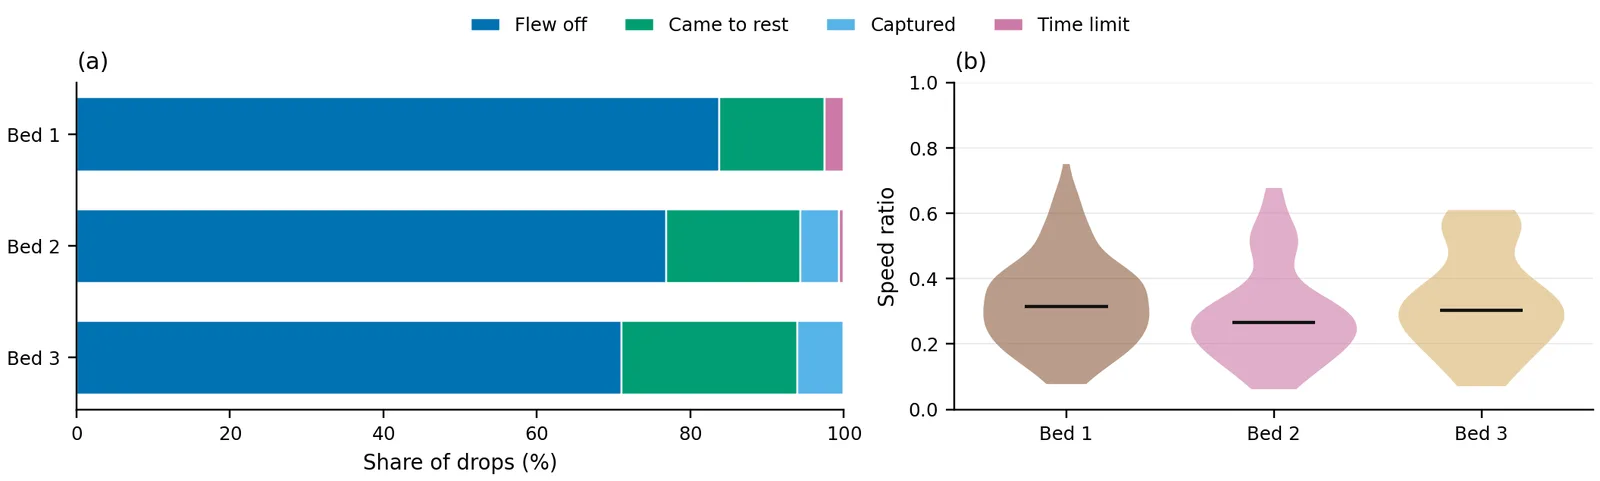
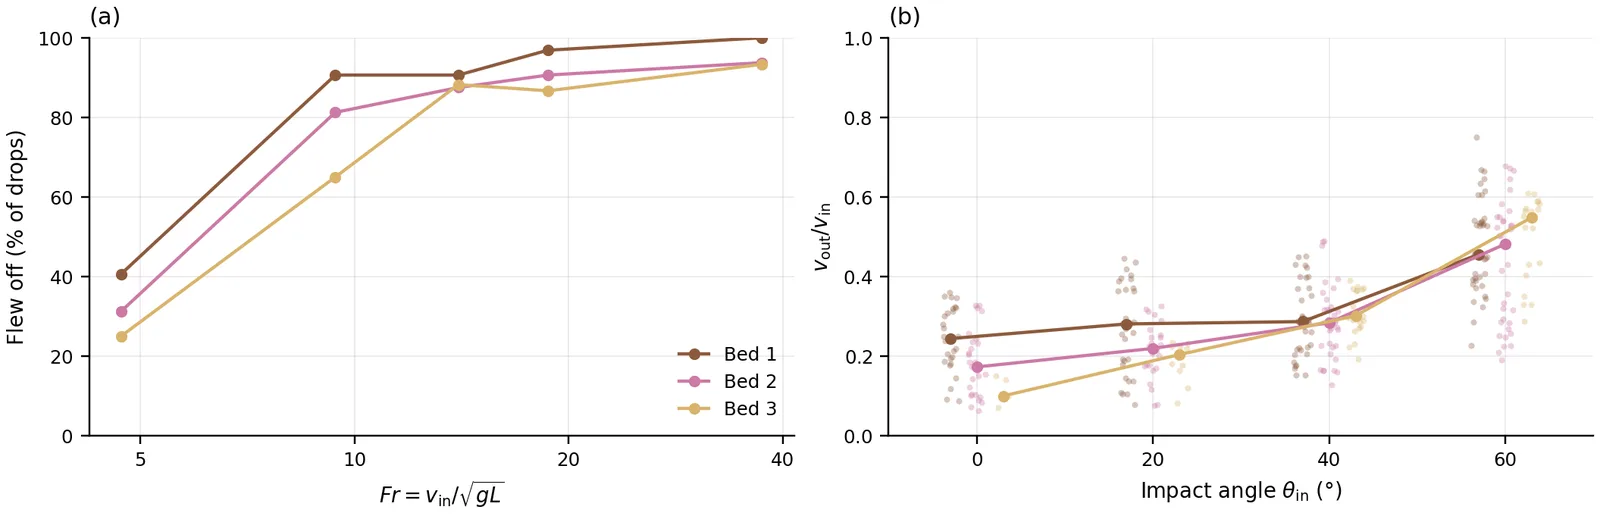
project pages: update

diff --git a/src/project/results.md b/src/project/results.md
@@ -6,7 +6,7 @@ The drops stopped with 1,814 of the 4,360 planned drops finished. Bed 1 is compl
 
 **Decided November 10: bed 2 stops and bed 3 continues as it is,** 37 cm of stones, now with a 1.0 m free patch (bed 1 used 1.2 m). Its 1,440 drops take about 18 days on the lab Mac. The 83 bed 3 drops made with the 1.2 m patch are kept, and pair with the new ones at the center spot as a check of the smaller patch. Bed 2's 251 drops stay in the record.
 
-**Words used here.** The *speed ratio* is the speed leaving the surface divided by the impact speed. *Flew off* means the craft is in flight after its last touch on the patch. It includes the drops recorded as leaving the patch, which are in the air and differ only in whether they were rising as they crossed its edge. It does not mean the craft escaped. The *free patch* is the circle around the aim point where grains can move.
+**Symbols and words used here.** v<sub>in</sub> is the impact speed, v<sub>out</sub> the speed leaving the surface, and v<sub>out</sub>/v<sub>in</sub> their ratio. θ<sub>in</sub> is the impact angle from vertical, ω<sub>out</sub> the craft's spin as it leaves, and Fr = v<sub>in</sub>/√(gL) the Froude number (g the gravity, L the craft's 36.6 cm length). *Flew off* means the craft is in flight after its last touch on the patch. It includes the drops recorded as leaving the patch, which are in the air and differ only in whether they were rising as they crossed its edge. It does not mean the craft escaped. The *free patch* is the circle around the aim point where grains can move.
 
 ## How much is done
 
@@ -28,73 +28,43 @@ Boulders 20–70 cm long, 720 drops at each gravity: 5 speeds, 4 angles, 4 craft
 
 - Most drops fly off: 85% on Dimorphos and 82% on Didymos. Another 11–15% come to rest.
 - Impact speed decides whether the craft flies off. On Dimorphos 53% fly off at 2 cm/s and 99% at 16 cm/s.
-- Impact angle decides how much speed it keeps: a median ratio of 0.25–0.32 up to 40° and 0.5 at 60°.
+- Impact angle decides how much speed it keeps: a median v<sub>out</sub>/v<sub>in</sub> of 0.25–0.32 up to 40° and 0.5 at 60°.
 - Landing at 8 cm/s on Dimorphos, 1 drop in 144 leaves faster than 6.5 cm/s and 34% leave faster than 3.3 cm/s. At 16 cm/s those become 35% and 76%. Most drops that fly off stay on the body: 72% of those on Dimorphos, across all three beds, leave slower than 3.3 cm/s.
 - Craft pose and landing spot matter much less. The solar panels touch first in over 80% of drops, except in the pose that lands on the back of the body.
 
 <figure style="margin:1.4em 0">
-<img src="figures/results/bed1/outcomes.webp" alt="How the drops ended, as a share of the drops at each impact speed (a, c; 144 drops per bar) and impact angle from vertical (b, d; 180 drops per bar), for Dimorphos (a, b) and Didymos (c, d) gravity" loading="lazy" style="width:100%;background:#fff">
-<figcaption style="font-size:.9em;margin-top:.4em">How the drops ended, as a share of the drops at each impact speed (a, c; 144 drops per bar) and impact angle from vertical (b, d; 180 drops per bar), for Dimorphos (a, b) and Didymos (c, d) gravity. Flew off includes the drops recorded as leaving the free patch.</figcaption>
+<img src="figures/results/bed1/outcomes.webp" alt="Share of drops that flew off against impact speed v_in, one line per impact angle θ_in from vertical, for Dimorphos (a) and Didymos (b) gravity" loading="lazy" style="width:100%;background:#fff">
+<figcaption style="font-size:.9em;margin-top:.4em">Share of drops that flew off against impact speed v<sub>in</sub>, one line per impact angle θ<sub>in</sub> from vertical, for Dimorphos (a) and Didymos (b) gravity. Each point is 36 drops: 9 landing spots and 4 craft poses. The other drops came to rest or were captured; a few reached the 300 s time limit or never touched. Flew off includes the drops recorded as leaving the free patch.</figcaption>
 </figure>
 
 <figure style="margin:1.4em 0">
-<img src="figures/results/bed1/outcome_map.webp" alt="Share of drops that flew off (a, c) and stayed, meaning came to rest or were captured (b, d), for each impact speed and angle" loading="lazy" style="width:100%;background:#fff">
-<figcaption style="font-size:.9em;margin-top:.4em">Share of drops that flew off (a, c) and stayed, meaning came to rest or were captured (b, d), for each impact speed and angle. Top row Dimorphos, bottom row Didymos. Each cell is 36 drops.</figcaption>
+<img src="figures/results/bed1/exit_speed.webp" alt="Speed leaving the surface v_out against impact speed v_in for every drop that flew off, colored by impact angle θ_in, for Dimorphos (a) and Didymos (b) gravity; impact speeds are spread a little sideways so the points do not overlap" loading="lazy" style="width:100%;background:#fff">
+<figcaption style="font-size:.9em;margin-top:.4em">Speed leaving the surface v<sub>out</sub> against impact speed v<sub>in</sub> for every drop that flew off, colored by impact angle θ<sub>in</sub>, for Dimorphos (a) and Didymos (b) gravity; impact speeds are spread a little sideways so the points do not overlap. (c) Share of the Dimorphos drops leaving faster than the escape speed v<sub>esc</sub> from near Dimorphos's surface, which ranges from 3.3 to 6.5 cm/s over the surface; each point is 144 drops.</figcaption>
 </figure>
 
 <figure style="margin:1.4em 0">
-<img src="figures/results/bed1/what_matters.webp" alt="Share of the spread in the results explained by each setting taken alone (the between-group share of the variance): (a) whether the drop flew off; (b) the speed ratio of the drops that flew off." loading="lazy" style="width:100%;background:#fff">
-<figcaption style="font-size:.9em;margin-top:.4em">Share of the spread in the results explained by each setting taken alone (the between-group share of the variance): (a) whether the drop flew off; (b) the speed ratio of the drops that flew off.</figcaption>
+<img src="figures/results/bed1/vout_vin.webp" alt="Speed leaving the surface over impact speed, v_out/v_in, for every drop that flew off, against impact angle θ_in from vertical, for Dimorphos (a) and Didymos (b) gravity" loading="lazy" style="width:100%;background:#fff">
+<figcaption style="font-size:.9em;margin-top:.4em">Speed leaving the surface over impact speed, v<sub>out</sub>/v<sub>in</sub>, for every drop that flew off, against impact angle θ<sub>in</sub> from vertical, for Dimorphos (a) and Didymos (b) gravity. Points are colored by craft pose and shifted a little sideways by pose; lines join each pose's medians. All impact speeds together: impact speed explains under 2 % of the variance of v<sub>out</sub>/v<sub>in</sub> (see the next figure).</figcaption>
 </figure>
 
 <figure style="margin:1.4em 0">
-<img src="figures/results/bed1/bounce_ratio.webp" alt="Speed ratio (speed leaving the surface divided by impact speed) of the drops that flew off, against impact speed (a, c) and impact angle (b, d)" loading="lazy" style="width:100%;background:#fff">
-<figcaption style="font-size:.9em;margin-top:.4em">Speed ratio (speed leaving the surface divided by impact speed) of the drops that flew off, against impact speed (a, c) and impact angle (b, d). Boxes span the middle half of the drops, the line is the median and the whiskers reach 1.5 times the box height.</figcaption>
+<img src="figures/results/bed1/what_matters.webp" alt="Share of the variance of each result explained by each setting on its own (η², the between-group share of the variance): (a) whether a drop flew off, counted as 1 or 0; (b) v_out/v_in of the drops that flew off" loading="lazy" style="width:100%;background:#fff">
+<figcaption style="font-size:.9em;margin-top:.4em">Share of the variance of each result explained by each setting on its own (η², the between-group share of the variance): (a) whether a drop flew off, counted as 1 or 0; (b) v<sub>out</sub>/v<sub>in</sub> of the drops that flew off. Settings: impact speed v<sub>in</sub>, impact angle θ<sub>in</sub>, craft pose and landing spot.</figcaption>
 </figure>
 
 <figure style="margin:1.4em 0">
-<img src="figures/results/bed1/ratio_by_pose.webp" alt="Median speed ratio of the drops that flew off, for each impact speed, angle and craft pose" loading="lazy" style="width:100%;background:#fff">
-<figcaption style="font-size:.9em;margin-top:.4em">Median speed ratio of the drops that flew off, for each impact speed, angle and craft pose. Top row Dimorphos, bottom row Didymos. Each cell holds at most 9 drops; white cells had none that flew off.</figcaption>
+<img src="figures/results/bed1/exit_direction.webp" alt="Direction of the exit velocity for every drop that flew off, against impact angle θ_in, Dimorphos and Didymos gravity shifted a little sideways" loading="lazy" style="width:100%;background:#fff">
+<figcaption style="font-size:.9em;margin-top:.4em">Direction of the exit velocity for every drop that flew off, against impact angle θ<sub>in</sub>, Dimorphos and Didymos gravity shifted a little sideways. (a) Elevation α<sub>out</sub> above the local horizontal; lines join the medians. (b) Azimuth ψ<sub>out</sub> from the incoming horizontal direction: 0° carries on forward, ±180° comes back. Straight-down drops (θ<sub>in</sub> = 0°) have no incoming horizontal direction, so their ψ<sub>out</sub> is measured from the bed's x axis.</figcaption>
 </figure>
 
 <figure style="margin:1.4em 0">
-<img src="figures/results/bed1/exit_speed.webp" alt="Speed leaving the surface of every drop that flew off, against impact speed, for Dimorphos (a) and Didymos (b)" loading="lazy" style="width:100%;background:#fff">
-<figcaption style="font-size:.9em;margin-top:.4em">Speed leaving the surface of every drop that flew off, against impact speed, for Dimorphos (a) and Didymos (b). The gray band in (a) is the speed needed to escape Dimorphos from near its surface, 3.3 to 6.5 cm/s. (c) Share of Dimorphos drops leaving faster than the lower and upper edge of that band.</figcaption>
+<img src="figures/results/bed1/spin.webp" alt="Spin leaving the surface ω_out (magnitude of the craft&#x27;s angular velocity) against impact speed v_in for every drop that flew off, for Dimorphos (a) and Didymos (b) gravity" loading="lazy" style="width:100%;background:#fff">
+<figcaption style="font-size:.9em;margin-top:.4em">Spin leaving the surface ω<sub>out</sub> (magnitude of the craft's angular velocity) against impact speed v<sub>in</sub> for every drop that flew off, for Dimorphos (a) and Didymos (b) gravity. Points are colored by craft pose and shifted a little sideways by pose; lines join each pose's medians.</figcaption>
 </figure>
 
 <figure style="margin:1.4em 0">
-<img src="figures/results/bed1/exit_direction.webp" alt="Which way the craft leaves, both gravities, drops that flew off" loading="lazy" style="width:100%;background:#fff">
-<figcaption style="font-size:.9em;margin-top:.4em">Which way the craft leaves, both gravities, drops that flew off. (a) Height of the exit path above the horizontal against impact angle; the line in each shape is the median. (b) Direction relative to the approach: 0° carries on forward and ±180° comes back.</figcaption>
-</figure>
-
-<figure style="margin:1.4em 0">
-<img src="figures/results/bed1/spin_energy.webp" alt="Median spin leaving the surface (a, b) and share of the mechanical energy kept (c, d) against impact speed, one line per craft pose, for the drops that flew off." loading="lazy" style="width:100%;background:#fff">
-<figcaption style="font-size:.9em;margin-top:.4em">Median spin leaving the surface (a, b) and share of the mechanical energy kept (c, d) against impact speed, one line per craft pose, for the drops that flew off.</figcaption>
-</figure>
-
-<figure style="margin:1.4em 0">
-<img src="figures/results/bed1/contact.webp" alt="How the craft meets the ground" loading="lazy" style="width:100%;background:#fff">
-<figcaption style="font-size:.9em;margin-top:.4em">How the craft meets the ground. Median number of separate touches (a) and seconds from first to last touch (b) against impact speed on Dimorphos, one line per outcome; a point needs at least 5 drops. (c) Which part of the craft touched first, for each pose, both gravities.</figcaption>
-</figure>
-
-<figure style="margin:1.4em 0">
-<img src="figures/results/bed1/by_spot.webp" alt="The nine landing spots, 0.3 m apart, laid out as on the bed, 80 drops each" loading="lazy" style="width:100%;background:#fff">
-<figcaption style="font-size:.9em;margin-top:.4em">The nine landing spots, 0.3 m apart, laid out as on the bed, 80 drops each. Share of drops that flew off (a, c) and median speed ratio of those drops (b, d). Top row Dimorphos, bottom row Didymos.</figcaption>
-</figure>
-
-<figure style="margin:1.4em 0">
-<img src="figures/results/bed1/gravity_scaling.webp" alt="The same drops at both gravities, with Didymos at twice Dimorphos&#x27;s speed so that the two match in scaled terms" loading="lazy" style="width:100%;background:#fff">
-<figcaption style="font-size:.9em;margin-top:.4em">The same drops at both gravities, with Didymos at twice Dimorphos's speed so that the two match in scaled terms. Each gravity uses its own pour of the bed. (a) Speed ratio of the pairs that flew off both times, with the line of equal values. (b) Number of pairs with each combination of outcomes.</figcaption>
-</figure>
-
-<figure style="margin:1.4em 0">
-<img src="figures/results/bed1/travel_and_time.webp" alt="Share of drops at or below (a) the sideways distance from the aim point to the craft&#x27;s last touch and (b) the simulated time to the end of the drop, one curve per outcome, both gravities." loading="lazy" style="width:100%;background:#fff">
-<figcaption style="font-size:.9em;margin-top:.4em">Share of drops at or below (a) the sideways distance from the aim point to the craft's last touch and (b) the simulated time to the end of the drop, one curve per outcome, both gravities.</figcaption>
-</figure>
-
-<figure style="margin:1.4em 0">
-<img src="figures/results/bed1/health.webp" alt="(a) Result of each drop&#x27;s quality check" loading="lazy" style="width:100%;background:#fff">
-<figcaption style="font-size:.9em;margin-top:.4em">(a) Result of each drop's quality check. (b) Computer time per drop on one core, by outcome: boxes span the middle half, the line is the median and the whiskers reach 1.5 times the box width.</figcaption>
+<img src="figures/results/bed1/gravity_scaling.webp" alt="The same drops at both gravities, with Didymos at twice Dimorphos&#x27;s speed so that the Froude number Fr = v_in/√(gL) matches (g the gravity, L = 36.6 cm the craft&#x27;s length)" loading="lazy" style="width:100%;background:#fff">
+<figcaption style="font-size:.9em;margin-top:.4em">The same drops at both gravities, with Didymos at twice Dimorphos's speed so that the Froude number Fr = v<sub>in</sub>/√(gL) matches (g the gravity, L = 36.6 cm the craft's length). Each gravity uses its own pour of the bed. (a) v<sub>out</sub>/v<sub>in</sub> of the pairs that flew off both times; the line marks equal values. (b) Share of drops that flew off against Fr; each point is 144 drops.</figcaption>
 </figure>
 
 ## How big the beds need to be
@@ -102,8 +72,8 @@ Boulders 20–70 cm long, 720 drops at each gravity: 5 speeds, 4 angles, 4 craft
 A drop only simulates the free patch and a thin frozen ring around it. Time per drop follows the number of grains in the patch: it grows as grains to the power 1.52, so halving the grains makes each step 2.9 times faster.
 
 <figure style="margin:1.4em 0">
-<img src="figures/results/bed_size/cost_law.webp" alt="Computer time per step against the number of grains simulated, for every production drop of more than 500 steps" loading="lazy" style="width:100%;background:#fff">
-<figcaption style="font-size:.9em;margin-top:.4em">Computer time per step against the number of grains simulated, for every production drop of more than 500 steps. The dashed line is a power-law fit.</figcaption>
+<img src="figures/results/bed_size/cost_law.webp" alt="Wall time per time step on one core against the number of grains simulated N, for every production drop of more than 500 steps; the line is the power-law fit, given in the legend." loading="lazy" style="width:100%;background:#fff">
+<figcaption style="font-size:.9em;margin-top:.4em">Wall time per time step on one core against the number of grains simulated N, for every production drop of more than 500 steps; the line is the power-law fit, given in the legend.</figcaption>
 </figure>
 
 **Footprint (now 4 m × 4 m): no effect on drop time.** The bed outside the patch is left out of the drop. The footprint only affects settling, which takes 1.4 hours for stones, and the check of where a craft lands next.
@@ -121,20 +91,20 @@ A drop only simulates the free patch and a thin frozen ring around it. Time per 
 Cut short means the run would have stopped at the patch edge before its real end. At 1.0 m, 104 of the 1,437 bed 1 drops would be cut, and 19 of those leave faster than 5 cm/s.
 
 <figure style="margin:1.4em 0">
-<img src="figures/results/bed_size/patch_size.webp" alt="(a) Share of drops that a smaller free patch would cut short, from replaying each recorded path against a smaller circle, in addition to those that already leave today&#x27;s 1.2 m patch" loading="lazy" style="width:100%;background:#fff">
-<figcaption style="font-size:.9em;margin-top:.4em">(a) Share of drops that a smaller free patch would cut short, from replaying each recorded path against a smaller circle, in addition to those that already leave today's 1.2 m patch. (b) Time per drop on the stone bed relative to today, from the fitted cost, for three thicknesses of stones.</figcaption>
+<img src="figures/results/bed_size/patch_size.webp" alt="(a) Share of drops that a free patch of radius R would cut short, from replaying each recorded path against a smaller circle, in addition to those that already leave the 1.2 m patch" loading="lazy" style="width:100%;background:#fff">
+<figcaption style="font-size:.9em;margin-top:.4em">(a) Share of drops that a free patch of radius R would cut short, from replaying each recorded path against a smaller circle, in addition to those that already leave the 1.2 m patch. (b) Time per drop t on the stone bed relative to t<sub>ref</sub>, the time with R = 1.2 m and 37 cm of stones, from the fitted cost law, for three stone thicknesses.</figcaption>
 </figure>
 
 **Thickness (now 37 cm on stones): about 30 cm.** The craft itself barely goes in: from its first touch to its lowest touch it travels a median of 3 cm and at most 10 cm on stones. The stones go deeper. In the median drop, 95% of the stones that moved at least 5 mm lie within 28 cm of the surface, and 33 cm in the deepest tenth of drops. Stones moving at least 2 cm reach 19 cm and 28 cm. At 25 cm the floor would replace a layer where about 1 stone in 10 still moves. At 30 cm it replaces the layer where about 1 in 30 does, as it does in today's bed.
 
 <figure style="margin:1.4em 0">
-<img src="figures/results/bed_size/grain_reach.webp" alt="Share of the grains in each 20 cm ring around the aim point (a) and each 10 cm layer below the mean surface (b) that moved at least 5 mm during a drop" loading="lazy" style="width:100%;background:#fff">
-<figcaption style="font-size:.9em;margin-top:.4em">Share of the grains in each 20 cm ring around the aim point (a) and each 10 cm layer below the mean surface (b) that moved at least 5 mm during a drop. Each point is the median over all drops on that bed, 1,771 drops in all. Grains whose centers sit above the mean surface are left out of (b).</figcaption>
+<img src="figures/results/bed_size/grain_reach.webp" alt="Share of the grains that moved at least 5 mm during a drop, in each 20 cm ring around the aim point (a, r the distance from the aim point) and each 10 cm layer below the mean surface (b, z the depth)" loading="lazy" style="width:100%;background:#fff">
+<figcaption style="font-size:.9em;margin-top:.4em">Share of the grains that moved at least 5 mm during a drop, in each 20 cm ring around the aim point (a, r the distance from the aim point) and each 10 cm layer below the mean surface (b, z the depth). Each point is the median over all drops on that bed, 1,771 drops in all. Grains whose centers sit above the mean surface are left out of (b).</figcaption>
 </figure>
 
 <figure style="margin:1.4em 0">
-<img src="figures/results/bed_size/depth.webp" alt="Share of drops at or below a given depth, measured from the craft&#x27;s first touch to the lowest point it touched" loading="lazy" style="width:100%;background:#fff">
-<figcaption style="font-size:.9em;margin-top:.4em">Share of drops at or below a given depth, measured from the craft's first touch to the lowest point it touched. The beds are 67 cm (bed 1), 41 cm (bed 2) and 37 cm (bed 3) thick.</figcaption>
+<img src="figures/results/bed_size/depth.webp" alt="Cumulative share of drops against how far the craft sank: the depth from its first touch to the lowest point it touched" loading="lazy" style="width:100%;background:#fff">
+<figcaption style="font-size:.9em;margin-top:.4em">Cumulative share of drops against how far the craft sank: the depth from its first touch to the lowest point it touched. The beds are 67 cm (bed 1), 41 cm (bed 2) and 37 cm (bed 3) thick.</figcaption>
 </figure>
 
 **What each choice costs.**
@@ -153,7 +123,7 @@ Going finer is expensive. Stones 25% smaller would mean 2.4 times the grains and
 
 Bed 2 was stopped on November 10. Under the same conditions at the center spot, the differences between beds are about the size of the differences between two spots on one bed.
 
-| Comparison, same drops | Same outcome | Change in speed ratio (median) |
+| Comparison, same drops | Same outcome | Median change in v<sub>out</sub>/v<sub>in</sub> |
 |---|---|---|
 | Bed 1 against bed 2 | 83% | 0.11 |
 | Bed 2 against bed 3 | 80% | 0.07 |
@@ -161,16 +131,11 @@ Bed 2 was stopped on November 10. Under the same conditions at the center spot, 
 | Two spots on bed 1, for reference | 82–85% | 0.09–0.14 |
 
 <figure style="margin:1.4em 0">
-<img src="figures/results/bed_size/beds_compare.webp" alt="The three beds under the same conditions, at the center landing spot" loading="lazy" style="width:100%;background:#fff">
-<figcaption style="font-size:.9em;margin-top:.4em">The three beds under the same conditions, at the center landing spot. (a) How the drops ended. (b) Speed ratio of the drops that flew off; the line in each shape is the median.</figcaption>
+<img src="figures/results/bed_size/beds_compare.webp" alt="The three beds under the same conditions, at the center landing spot, both gravities together" loading="lazy" style="width:100%;background:#fff">
+<figcaption style="font-size:.9em;margin-top:.4em">The three beds under the same conditions, at the center landing spot, both gravities together. (a) Share of drops that flew off against the Froude number Fr = v<sub>in</sub>/√(gL) (g the gravity, L = 36.6 cm the craft's length), which puts the two gravities on one scale; each point is up to 32 drops. (b) v<sub>out</sub>/v<sub>in</sub> of the drops that flew off against impact angle θ<sub>in</sub>; points shifted a little sideways by bed, lines join each bed's medians.</figcaption>
 </figure>
 
 Dropping bed 2 does lose something. It is not a plain mix of the other two: a drop that hits a rock first flies off less often than on bare boulders (76% against 84%), and one that hits a stone first flies off more often than on the stone bed (88% against 71%). The paper could only bracket that case between the two remaining beds.
-
-<figure style="margin:1.4em 0">
-<img src="figures/results/bed_size/first_touch.webp" alt="How the drops ended, grouped by what the craft touched first: bed 1 on boulders, bed 2 on a rock or on a stone, bed 3 on stones." loading="lazy" style="width:100%;background:#fff">
-<figcaption style="font-size:.9em;margin-top:.4em">How the drops ended, grouped by what the craft touched first: bed 1 on boulders, bed 2 on a rock or on a stone, bed 3 on stones.</figcaption>
-</figure>
 
 ## What is still unknown
 

diff --git a/src/project/notebook/decisions.md b/src/project/notebook/decisions.md
@@ -714,3 +714,4 @@ artifact (rev 7). A gate is CLOSED only when its criterion has data.
   patch for impact; periodic boundaries remain an option). D4 closed
   (polyhedral small stones).
 - 2026-11-10 (user: "make the excel sheet give the whole velocity vector, spin vector, and attitude quaternion ... always") — **The workbook lists each finished drop's end state.** Ten columns after "grains moved": vx, vy, vz out (cm/s), spin x, y, z out (rad/s), qw, qx, qy, qz out, at full precision, from `exit` in each drop's `outcome.json` (`drop_records.load_exits`). One frame for all of them: the canonical bed frame (x along the incoming horizontal motion, z up out of the surface; the same as the bed frame while every drop has azimuth 0). For a drop that flew off it is the moment its free flight is confirmed; for the others, the end of the run. LMGC90 keeps the craft in its principal axes and their order and signs depend on the starting attitude (four turns over the 1,814 drops, one for each attitude), so the recorded quaternion is turned back to the craft's own axes (x 13 cm, y 24.6 cm, z 36.6 cm; upright = (1, 0, 0, 0)) with the turn found from each drop's first trajectory row and its starting attitude. Every rebuild (`lab.py impact-sheet`) carries them.
+- 2026-11-10 (user: "Dont put these extra bars and shaded regions in the plots", "the box and whisker plot is atrocious", "I really like scatter and line plots", "speed ratio??? cant you just do v2/v1", "get rid of any plots that dont deserve to be there") — **Figures: scatter and line plots only, technical axes, only what matters.** Results for one bed are now 7 figures (outcomes, exit speed, v_out/v_in, what matters, exit direction, spin, gravity scaling) and the bed-size study 5 (beds compared, patch size, grain reach, depth, cost law). Removed: outcome map, ratio by pose, by spot, contact, travel and time, health, first touch, and every campaign figure (sites, bounce map, restitution, exit state, energy, contact, terrain, QA), which repeated the per-bed results in the banned styles. The escape-speed band, box plots, violins, stacked bars and heatmaps are gone; axes say v_in, v_out/v_in, θ_in, ω_out, Fr. Rules in docs/PLOTS.md.

diff --git a/src/project/methods.md b/src/project/methods.md
@@ -1,6 +1,6 @@
 # How each number is computed
 
-Every number in the [drop reel](../drops/index.html) and the run log, defined: what it is, why it can be trusted (or where it cannot), and the code that computes it. File and line refer to the project's code repository at the time this page was generated (2026-11-10 15:08); the excerpts are copied from that code, not paraphrased.
+Every number in the [drop reel](../drops/index.html) and the run log, defined: what it is, why it can be trusted (or where it cannot), and the code that computes it. File and line refer to the project's code repository at the time this page was generated (2026-11-10 15:52); the excerpts are copied from that code, not paraphrased.
 
 ## The craft model
 
